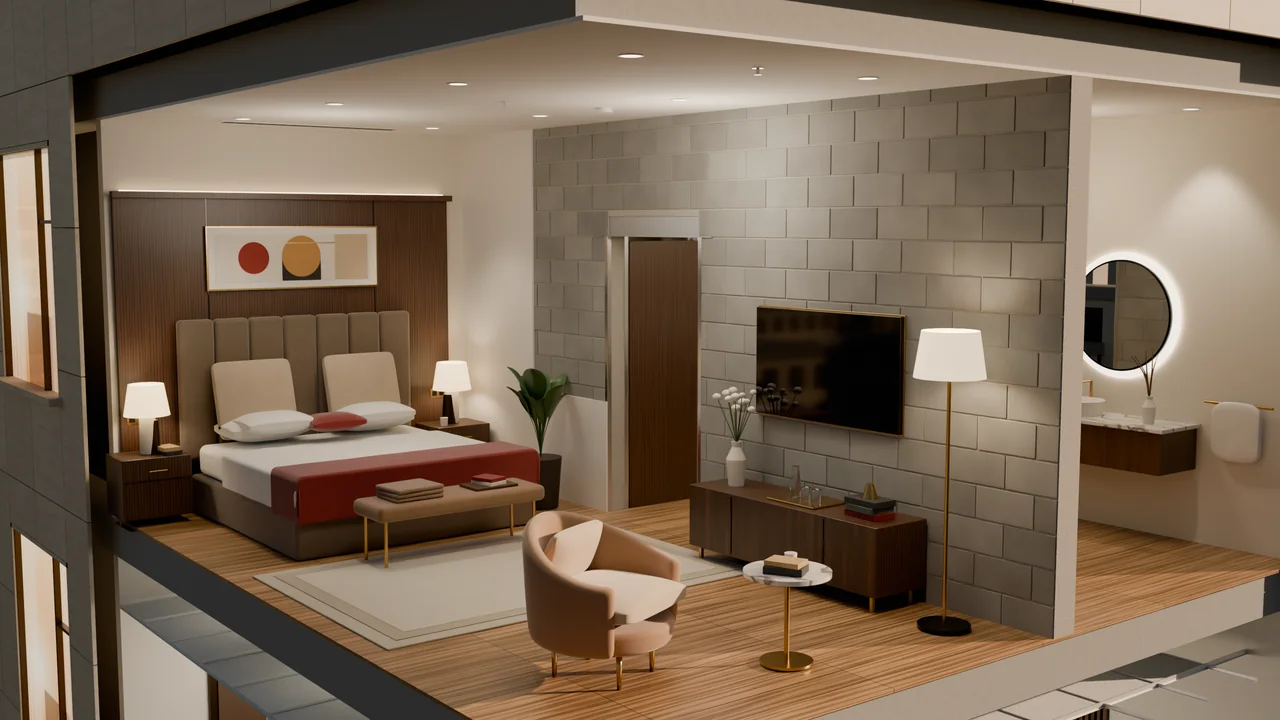
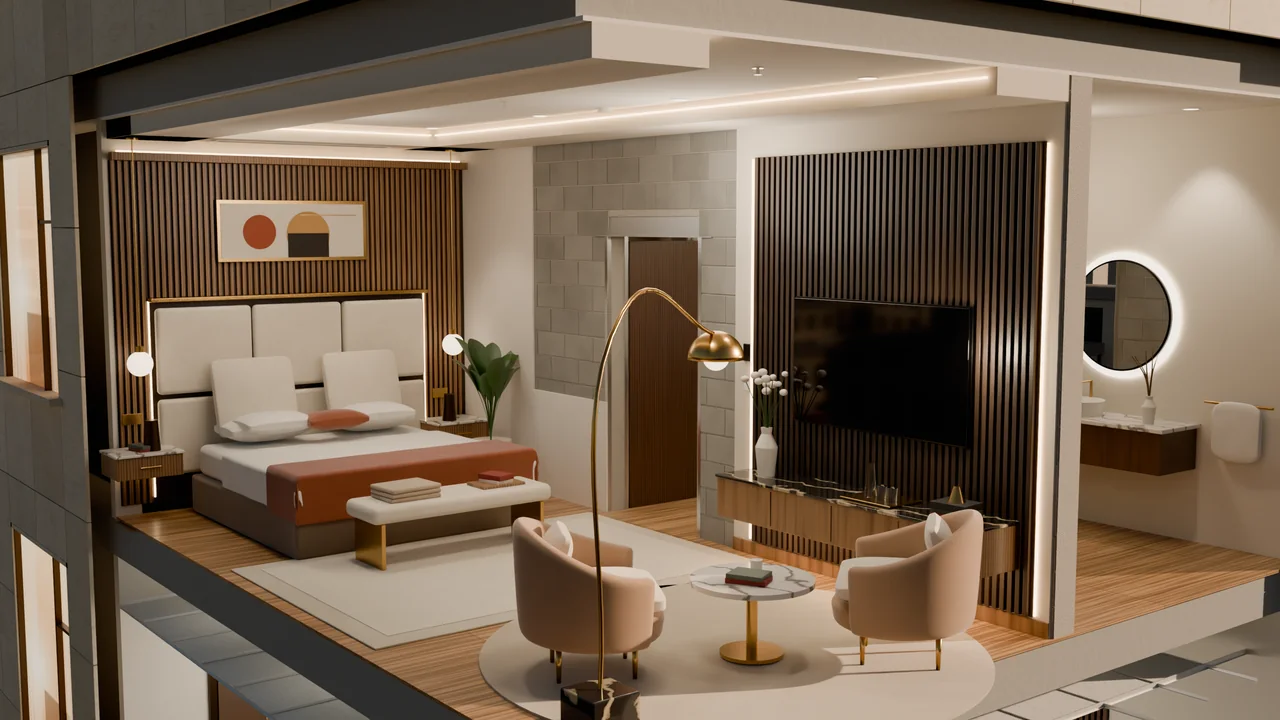
kv-v34b: hero chapters re-rendered — veined limestone cladding panels, redesigned suite, detailed roof, services floor and street
Claude-Session: https://claude.ai/code/session_017Zrk1783M4wwwCaEktgcez

diff --git a/assets/kv/herophoto.js b/assets/kv/herophoto.js
@@ -1,1 +1,1 @@
-const N=[{name:"The hotel",ox:.62,hi:1,v:"667077",tags:[]},{name:"Fa\xE7ade fixation",ox:.5,hi:1,v:"7e573c",tags:[{text:"Natural stone panels",num:null,href:"product/mechanical-cladding-fixation.html",x:.4354,y:-.1514},{text:"Stainless Z-brackets",num:null,href:"s/z-brackets.html",x:.586,y:.3359},{text:"Solid backing wall",num:null,href:"product/mechanical-cladding-fixation.html",x:.6528,y:.5268},{text:"Ventilated cavity",num:null,href:"product/mechanical-cladding-fixation.html",x:.2743,y:1.2563}]},{name:"The Z-bracket kit",ox:.5,hi:1,v:"de075c",tags:[{text:"Z-bracket",num:"1",href:"s/z-brackets.html",x:.4745,y:.6075},{text:"Through anchor",num:"2",href:"s/anchors.html",x:.4345,y:.4955},{text:"Serrated washer",num:"3",href:"s/z-brackets.html",x:.4428,y:.4612},{text:"Hex nuts",num:"4",href:"s/z-brackets.html",x:.4565,y:.6615},{text:"Flat head bolt",num:"5",href:"s/z-brackets.html",x:.4706,y:.6889},{text:"Pin with ring",num:"6",href:"s/z-brackets.html",x:.4888,y:.6482}]},{name:"Cable management",ox:.5,hi:1,v:"f88b6a",tags:[{text:"Perforated cable tray",num:null,href:"product/cable-trays.html",x:.34,y:.2554},{text:"Cable ladder",num:null,href:"product/cable-ladders.html",x:.7321,y:.5475},{text:"Strut channel trapeze",num:null,href:"product/c-channel-strut.html",x:.6573,y:.4215},{text:"Threaded rod & nuts",num:null,href:"s/threaded-accessories.html",x:.7319,y:.4777},{text:"Pipe clamps",num:null,href:"product/pipe-clamps.html",x:.3827,y:.4447},{text:"Cable trunking",num:null,href:"product/cable-trunkings.html",x:-.0406,y:.9286}]},{name:"Raised access floor",ox:.5,hi:1,v:"6b1dca",tags:[{text:"Porcelain slabs 600 \xD7 600",num:null,href:"product/raised-access-flooring.html",x:.6838,y:.4969},{text:"Adjustable pedestals",num:null,href:"s/indoor-access-floor.html",x:.6216,y:.6939},{text:"Self-levelling head",num:null,href:"s/indoor-access-floor.html",x:.8497,y:.5621}]},{name:"Ceilings & movement joints",ox:.5,hi:1,v:"c191a5",tags:[{text:"Metal ceiling grid",num:null,href:"product/metal-ceiling-grid.html",x:.4944,y:.3199},{text:"Floor expansion joint",num:null,href:"s/floor-joints.html",x:.6808,y:.8966},{text:"Wall joint cover",num:null,href:"s/wall-ceiling-joints.html",x:.398,y:.5393}]},{name:"Blockwork & lintels",ox:.5,hi:1,v:"35f995",tags:[{text:"Blockwork partition",num:null,href:"s/block-accessories.html",x:.4462,y:.3793},{text:"Steel lintel",num:null,href:"s/steel-lintels.html",x:.5078,y:.316},{text:"Angle beads",num:null,href:"s/plaster-beads.html",x:.5452,y:.5425}]},{name:"Garbage & linen chute",ox:.5,hi:1,v:"1a685a",tags:[{text:"Chute through every floor",num:null,href:"product/garbage-linen-chutes.html",x:.5051,y:.1311},{text:"Intake doors",num:null,href:"s/chute-components.html",x:.5025,y:.4667},{text:"Chute sections",num:null,href:"s/chute-components.html",x:.5037,y:.6748}]},{name:"The roof",ox:.5,hi:1,v:"f9c590",tags:[{text:"Porcelain terrace",num:null,href:"s/outdoor-pedestals.html",x:.2902,y:.7295},{text:"Terrace on adjustable pedestals",num:null,href:"s/outdoor-pedestals.html",x:.4508,y:.6766},{text:"FRP grating walkway",num:null,href:"s/frp-grating-handrail.html",x:.6566,y:.5929},{text:"FRP handrail",num:null,href:"s/frp-grating-handrail.html",x:.788,y:.3357},{text:"Cable ladder on strut stands",num:null,href:"product/cable-ladders.html",x:.7073,y:.3621}]}],Tt=[{o:[1.7,.65,.58],i:[1.22,.1,0]},{o:[1.6,.48,.59],i:[1.2,0,.25]},{o:[1.28,.5,.5],i:[1.4,.69,.98]},{o:[1.3,.4,1],i:[1.3,.45,0]},{o:[1.3,.4,0],i:[1.3,.6,1]},{o:[1.3,.5,0],i:[1.3,.5,1]},{o:[1.18,.5,.5],i:[1.35,.46,.07]},{o:[1.5,.19,.82],i:[1.25,.45,1]}],k="img/hotel/",I=620,i=document.querySelector(".hero"),dt=i&&i.querySelector(".hero-media");i&&dt&&Lt();function Lt(){const z=matchMedia("(prefers-reduced-motion: reduce)").matches,w=matchMedia("(min-width: 900px)"),p=N.length;let h=null;z||(h=document.createElement("div"),h.className="kv3d-pin kv3d-pin-long",i.parentNode.insertBefore(h,i),h.appendChild(i));const j=()=>!!h&&w.matches,M=document.createElement("div");M.className="kvh-stack",dt.appendChild(M);const f=N.map((t,n)=>{let e;const a=n===0?"":"?v="+t.v,s=k+"c"+n+"-1280.webp"+a+" 1280w, "+k+"c"+n+"-1920.webp"+a+" 1920w"+(t.hi?", "+k+"c"+n+"-2560.webp"+a+" 2560w":"");return n===0?(e=document.createElement("picture"),e.innerHTML='<source media="(max-width: 899px)" srcset="'+k+"c0p-800.webp 800w, "+k+'c0p-1080.webp 1080w" sizes="100vw"><img src="'+k+"c0-1920.webp"+a+'" srcset="'+s+'" sizes="100vw" alt="" fetchpriority="high" decoding="async">'):(e=document.createElement("img"),e.alt="",e.decoding="async",e.dataset.srcset=s),e.className="kvh-img"+(n===0?" on":""),e.style.setProperty("--ox",t.ox*100+"%"),M.appendChild(e),e}),q=t=>f[t].tagName==="PICTURE"?f[t].querySelector("img"):f[t],ht=t=>{const n=q(t);return n.complete&&n.naturalWidth>0},y=t=>{const n=f[t];n&&n.dataset.srcset&&(n.sizes="100vw",n.srcset=n.dataset.srcset,delete n.dataset.srcset)},mt=(t,n,e)=>{if(y(t),ht(t))return n();const a=q(t);let s=!1;const r=()=>{s||(s=!0,n())};a.addEventListener("load",r,{once:!0}),a.addEventListener("error",r,{once:!0}),e&&setTimeout(r,e)},b=document.createElement("div");b.className="kv3d-labels",b.setAttribute("aria-hidden","true"),i.appendChild(b);const ut=(t,n)=>{const e=document.createElement("div");e.className="kv3d-tag",e.style.setProperty("--d",n*70+"ms");const a=document.createElement("span");a.className="kv3d-dot";const s=document.createElement("span");s.className="kv3d-line";const r=document.createElement(t.href?"a":"span");if(r.className="kv3d-chip",t.href&&(r.href=t.href,r.tabIndex=-1,r.style.textDecoration="none",r.style.pointerEvents="none"),t.num){const m=document.createElement("b");m.textContent=t.num,r.appendChild(m)}const x=document.createElement("span");return x.textContent=t.text,r.appendChild(x),e.append(s,a,r),b.appendChild(e),{el:e,line:s,chip:r,on:!1,href:!!t.href,x:t.x,y:t.y}},ft=N.map(t=>t.tags.map(ut)),H=document.createElement("div");H.className="kv3d-steps kv3d-steps-many";const xt=N.map((t,n)=>{const e=document.createElement("button");e.type="button",e.className="kv3d-step";const a=document.createElement("b");a.textContent=String(n+1).padStart(2,"0");const s=document.createElement("span");return s.textContent=t.name,e.append(a,s),e.setAttribute("aria-label",t.name),e.addEventListener("click",()=>{j()&&(y(n),scrollTo({top:pt(n),behavior:"smooth"}))}),H.appendChild(e),e});i.appendChild(H);const C=document.createElement("div");C.className="kv3d-hint",C.textContent="Scroll to tour the hotel",i.appendChild(C);const V=()=>Math.max(1,h.offsetHeight-i.offsetHeight),pt=t=>h.getBoundingClientRect().top+scrollY-62+V()*(t/(p-1));let F=1,R=1;const Y=1920,Z=1080,yt=(t,n,e)=>{const a=Math.max(F/Y,R/Z),s=Y*a,r=Z*a;return[(F-s)*t.ox+n*s,(R-r)*.5+e*r]};function W(){const t=i.getBoundingClientRect();F=Math.max(1,t.width),R=Math.max(1,t.height),L()}let E=0,A=!1,d=0,T=0,g=0,_=0,gt=2,Q=0,X=0;const vt=()=>d;function L(){const t=j(),n=!A&&d===E;ft.forEach((a,s)=>Mt(a,N[s],t&&n&&s===E));const e=t?vt():0;i.classList.toggle("kv3d-detail",t&&e>0),xt.forEach((a,s)=>a.classList.toggle("on",s===e)),C.classList.toggle("gone",T>.02)}const J=t=>"translate("+((1-t[0])*t[1]*100).toFixed(3)+"%,"+((1-t[0])*t[2]*100).toFixed(3)+"%) scale("+t[0]+")",bt="translate(0,0) scale(1)",Et=t=>{const n=getComputedStyle(t);t.style.transition="none",t.style.transform=n.transform,t.style.opacity=n.opacity},K="cubic-bezier(.33,0,.15,1)";function kt(t){const n=E,e=++X;A=!0,L(),mt(t,()=>{if(e!==X)return;const a=f[n],s=f[t],r=t>n,x=Math.abs(t-n)===1,m=x?Tt[Math.min(n,t)]:null,D=x?r?m.o:m.i:[1.22,.5,.5],O=x?r?m.i:m.o:[1.1,.5,.5];f.forEach(l=>{l.classList.contains("on")&&Et(l)}),s.style.transition="none",s.style.zIndex=++gt,s.style.transformOrigin="0 0",s.classList.contains("on")||(s.style.opacity=0,s.style.transform=J(O),s.classList.add("on")),a.style.transformOrigin="0 0",s.offsetWidth;const o="transform "+I+"ms "+K+", opacity "+Math.round(I*.8)+"ms ease-in-out";s.style.transition=o,s.style.transform=bt,s.style.opacity=1,a!==s&&(a.style.transition="transform "+I+"ms "+K,a.style.transform=J(D)),E=t,clearTimeout(Q),Q=setTimeout(()=>{e===X&&(f.forEach((l,u)=>{u!==t&&(l.classList.remove("on"),l.style.transition="none",l.style.transform="",l.style.opacity="")}),s.style.transition="none",s.style.transform="",s.style.opacity="",A=!1,L(),P())},I+40)},1200)}function P(){if(d===E){A||(y(E),L());return}kt(d)}const $=.2,wt=.05;let v=0;function B(){if(!j()){T=0,d!==0&&(d=0,P()),L();return}const t=h.getBoundingClientRect(),n=Math.max(0,Math.min(1,(62-t.top)/V()));T=n;const e=n*(p-1);g===0?Math.abs(e-v)>.01&&(g=e>v?1:-1,v=e):(e-v)*g>=0?v=e:Math.abs(e-v)>wt&&(g=-g,v=e);let a=d;g>0?a=Math.max(d,Math.floor(e-$)+1):g<0&&(a=Math.min(d,Math.ceil(e+$)-1)),a=Math.max(0,Math.min(p-1,a)),clearTimeout(_),_=setTimeout(()=>{const s=Math.round(T*(p-1));Math.abs(T*(p-1)-d)>=1&&s!==d&&(d=s,P())},250),C.classList.toggle("gone",n>.02),a!==d&&(d=a,y(Math.min(p-1,a+1)),P())}const tt=42,et=60;function Mt(t,n,e){if(!t.length||(t.forEach(o=>{e!==o.on&&(o.on=e,o.el.classList.toggle("on",e),o.href&&(o.chip.style.pointerEvents=e?"auto":"none"))}),!e))return;const a=t.map(o=>{const[l,u]=yt(n,o.x,o.y);return{L:o,ax:l,ay:u}}),s=a.reduce((o,l)=>o+l.ax,0)/a.length,r=Math.min(...a.map(o=>o.ax)),x=Math.max(...a.map(o=>o.ax)),m={l:[],r:[]};a.forEach(o=>m[o.ax<s?"l":"r"].push(o));const D=96,O=R-118;["l","r"].forEach(o=>{const l=m[o].sort((c,Ct)=>c.ay-Ct.ay);if(!l.length)return;const u=o==="l"?r-et*.6:x+et*.6,S=o==="l"?Math.max(240,u):Math.min(F-240,u);let U=-1e9;l.forEach(c=>{c.ty=Math.max(c.ay,U+tt),U=c.ty});const ct=U-O;ct>0&&l.forEach(c=>c.ty-=ct);for(let c=l.length-2;c>=0;c--)l[c].ty=Math.min(l[c].ty,l[c+1].ty-tt);const it=D-l[0].ty;it>0&&l.forEach(c=>c.ty+=it),l.forEach(c=>{c.tx=S,c.left=o==="l"})}),a.forEach(o=>{const l=o.L,u=o.tx-o.ax,S=o.ty-o.ay;l.el.style.transform="translate("+o.ax.toFixed(1)+"px,"+o.ay.toFixed(1)+"px)",l.el.classList.toggle("left",o.left),l.line.style.width=Math.hypot(u,S).toFixed(1)+"px",l.line.style.transform="rotate("+Math.atan2(S,u).toFixed(4)+"rad)",l.chip.style.left=u.toFixed(1)+"px",l.chip.style.top=S.toFixed(1)+"px"})}const nt=["scroll","wheel","touchstart","keydown","pointerdown"];let st=!1;const at=()=>{if(!(st||!w.matches||z)){st=!0;for(let t=1;t<p;t++)setTimeout(()=>y(t),120*t);nt.forEach(t=>removeEventListener(t,at))}},ot=()=>{!w.matches||z||(y(1),y(2))};"requestIdleCallback"in window?requestIdleCallback(ot,{timeout:2500}):setTimeout(ot,1500),nt.forEach(t=>addEventListener(t,at,{passive:!0})),addEventListener("scroll",B,{passive:!0}),!z&&matchMedia("(pointer:fine)").matches&&(i.addEventListener("pointermove",t=>{const n=i.getBoundingClientRect(),e=(t.clientX-n.left)/n.width-.5,a=(t.clientY-n.top)/n.height-.5,s="translate3d("+(-e*14).toFixed(1)+"px,"+(-a*9).toFixed(1)+"px,0) scale(1.025)";M.style.transform=s,b.style.transform=s}),i.addEventListener("pointerleave",()=>{M.style.transform="",b.style.transform=""}));const lt=()=>{i.classList.add("has-3d","kvh-ready"),h&&h.classList.add("on"),W(),B()},G=q(0);G.complete&&G.naturalWidth?lt():G.addEventListener("load",lt,{once:!0});let rt;addEventListener("resize",()=>{clearTimeout(rt),rt=setTimeout(()=>{W(),B()},80)}),w.addEventListener&&w.addEventListener("change",()=>{W(),B()})}
+const N=[{name:"The hotel",ox:.62,hi:1,v:"7f790f",tags:[]},{name:"Fa\xE7ade fixation",ox:.5,hi:1,v:"fd509d",tags:[{text:"Natural stone panels",num:null,href:"product/mechanical-cladding-fixation.html",x:.4354,y:-.1514},{text:"Stainless Z-brackets",num:null,href:"s/z-brackets.html",x:.586,y:.3359},{text:"Solid backing wall",num:null,href:"product/mechanical-cladding-fixation.html",x:.6528,y:.5268},{text:"Ventilated cavity",num:null,href:"product/mechanical-cladding-fixation.html",x:.2743,y:1.2563}]},{name:"The Z-bracket kit",ox:.5,hi:1,v:"582c3e",tags:[{text:"Z-bracket",num:"1",href:"s/z-brackets.html",x:.4745,y:.6075},{text:"Through anchor",num:"2",href:"s/anchors.html",x:.4345,y:.4955},{text:"Serrated washer",num:"3",href:"s/z-brackets.html",x:.4428,y:.4612},{text:"Hex nuts",num:"4",href:"s/z-brackets.html",x:.4565,y:.6615},{text:"Flat head bolt",num:"5",href:"s/z-brackets.html",x:.4706,y:.6889},{text:"Pin with ring",num:"6",href:"s/z-brackets.html",x:.4888,y:.6482}]},{name:"Cable management",ox:.5,hi:1,v:"6bab65",tags:[{text:"Perforated cable tray",num:null,href:"product/cable-trays.html",x:.34,y:.2554},{text:"Cable ladder",num:null,href:"product/cable-ladders.html",x:.7321,y:.5475},{text:"Strut channel trapeze",num:null,href:"product/c-channel-strut.html",x:.6573,y:.4215},{text:"Threaded rod & nuts",num:null,href:"s/threaded-accessories.html",x:.7319,y:.4777},{text:"Pipe clamps",num:null,href:"product/pipe-clamps.html",x:.3827,y:.4447},{text:"Cable trunking",num:null,href:"product/cable-trunkings.html",x:-.0406,y:.9286}]},{name:"Raised access floor",ox:.5,hi:1,v:"701ce4",tags:[{text:"Porcelain slabs 600 \xD7 600",num:null,href:"product/raised-access-flooring.html",x:.6838,y:.4969},{text:"Adjustable pedestals",num:null,href:"s/indoor-access-floor.html",x:.6216,y:.6939},{text:"Self-levelling head",num:null,href:"s/indoor-access-floor.html",x:.8497,y:.5621}]},{name:"Ceilings & movement joints",ox:.5,hi:1,v:"f5bd2a",tags:[{text:"Metal ceiling grid",num:null,href:"product/metal-ceiling-grid.html",x:.4944,y:.3199},{text:"Floor expansion joint",num:null,href:"s/floor-joints.html",x:.6808,y:.8966},{text:"Wall joint cover",num:null,href:"s/wall-ceiling-joints.html",x:.398,y:.5393}]},{name:"Blockwork & lintels",ox:.5,hi:1,v:"b38667",tags:[{text:"Blockwork partition",num:null,href:"s/block-accessories.html",x:.4462,y:.3793},{text:"Steel lintel",num:null,href:"s/steel-lintels.html",x:.5078,y:.316},{text:"Angle beads",num:null,href:"s/plaster-beads.html",x:.5452,y:.5425}]},{name:"Garbage & linen chute",ox:.5,hi:1,v:"ca6363",tags:[{text:"Chute through every floor",num:null,href:"product/garbage-linen-chutes.html",x:.5051,y:.1311},{text:"Intake doors",num:null,href:"s/chute-components.html",x:.5025,y:.4667},{text:"Chute sections",num:null,href:"s/chute-components.html",x:.5037,y:.6748}]},{name:"The roof",ox:.5,hi:1,v:"4a050c",tags:[{text:"Porcelain terrace",num:null,href:"s/outdoor-pedestals.html",x:.2902,y:.7295},{text:"Terrace on adjustable pedestals",num:null,href:"s/outdoor-pedestals.html",x:.4508,y:.6766},{text:"FRP grating walkway",num:null,href:"s/frp-grating-handrail.html",x:.6566,y:.5929},{text:"FRP handrail",num:null,href:"s/frp-grating-handrail.html",x:.788,y:.3357},{text:"Cable ladder on strut stands",num:null,href:"product/cable-ladders.html",x:.7073,y:.3621}]}],Tt=[{o:[1.7,.65,.58],i:[1.22,.1,0]},{o:[1.6,.48,.59],i:[1.2,0,.25]},{o:[1.28,.5,.5],i:[1.4,.69,.98]},{o:[1.3,.4,1],i:[1.3,.45,0]},{o:[1.3,.4,0],i:[1.3,.6,1]},{o:[1.3,.5,0],i:[1.3,.5,1]},{o:[1.18,.5,.5],i:[1.35,.46,.07]},{o:[1.5,.19,.82],i:[1.25,.45,1]}],k="img/hotel/",I=620,i=document.querySelector(".hero"),dt=i&&i.querySelector(".hero-media");i&&dt&&Lt();function Lt(){const z=matchMedia("(prefers-reduced-motion: reduce)").matches,w=matchMedia("(min-width: 900px)"),p=N.length;let h=null;z||(h=document.createElement("div"),h.className="kv3d-pin kv3d-pin-long",i.parentNode.insertBefore(h,i),h.appendChild(i));const j=()=>!!h&&w.matches,M=document.createElement("div");M.className="kvh-stack",dt.appendChild(M);const f=N.map((t,n)=>{let e;const a=n===0?"":"?v="+t.v,s=k+"c"+n+"-1280.webp"+a+" 1280w, "+k+"c"+n+"-1920.webp"+a+" 1920w"+(t.hi?", "+k+"c"+n+"-2560.webp"+a+" 2560w":"");return n===0?(e=document.createElement("picture"),e.innerHTML='<source media="(max-width: 899px)" srcset="'+k+"c0p-800.webp 800w, "+k+'c0p-1080.webp 1080w" sizes="100vw"><img src="'+k+"c0-1920.webp"+a+'" srcset="'+s+'" sizes="100vw" alt="" fetchpriority="high" decoding="async">'):(e=document.createElement("img"),e.alt="",e.decoding="async",e.dataset.srcset=s),e.className="kvh-img"+(n===0?" on":""),e.style.setProperty("--ox",t.ox*100+"%"),M.appendChild(e),e}),q=t=>f[t].tagName==="PICTURE"?f[t].querySelector("img"):f[t],ht=t=>{const n=q(t);return n.complete&&n.naturalWidth>0},y=t=>{const n=f[t];n&&n.dataset.srcset&&(n.sizes="100vw",n.srcset=n.dataset.srcset,delete n.dataset.srcset)},mt=(t,n,e)=>{if(y(t),ht(t))return n();const a=q(t);let s=!1;const r=()=>{s||(s=!0,n())};a.addEventListener("load",r,{once:!0}),a.addEventListener("error",r,{once:!0}),e&&setTimeout(r,e)},b=document.createElement("div");b.className="kv3d-labels",b.setAttribute("aria-hidden","true"),i.appendChild(b);const ut=(t,n)=>{const e=document.createElement("div");e.className="kv3d-tag",e.style.setProperty("--d",n*70+"ms");const a=document.createElement("span");a.className="kv3d-dot";const s=document.createElement("span");s.className="kv3d-line";const r=document.createElement(t.href?"a":"span");if(r.className="kv3d-chip",t.href&&(r.href=t.href,r.tabIndex=-1,r.style.textDecoration="none",r.style.pointerEvents="none"),t.num){const m=document.createElement("b");m.textContent=t.num,r.appendChild(m)}const x=document.createElement("span");return x.textContent=t.text,r.appendChild(x),e.append(s,a,r),b.appendChild(e),{el:e,line:s,chip:r,on:!1,href:!!t.href,x:t.x,y:t.y}},ft=N.map(t=>t.tags.map(ut)),H=document.createElement("div");H.className="kv3d-steps kv3d-steps-many";const xt=N.map((t,n)=>{const e=document.createElement("button");e.type="button",e.className="kv3d-step";const a=document.createElement("b");a.textContent=String(n+1).padStart(2,"0");const s=document.createElement("span");return s.textContent=t.name,e.append(a,s),e.setAttribute("aria-label",t.name),e.addEventListener("click",()=>{j()&&(y(n),scrollTo({top:pt(n),behavior:"smooth"}))}),H.appendChild(e),e});i.appendChild(H);const C=document.createElement("div");C.className="kv3d-hint",C.textContent="Scroll to tour the hotel",i.appendChild(C);const V=()=>Math.max(1,h.offsetHeight-i.offsetHeight),pt=t=>h.getBoundingClientRect().top+scrollY-62+V()*(t/(p-1));let F=1,R=1;const Y=1920,Z=1080,yt=(t,n,e)=>{const a=Math.max(F/Y,R/Z),s=Y*a,r=Z*a;return[(F-s)*t.ox+n*s,(R-r)*.5+e*r]};function W(){const t=i.getBoundingClientRect();F=Math.max(1,t.width),R=Math.max(1,t.height),L()}let E=0,A=!1,d=0,T=0,g=0,_=0,gt=2,Q=0,X=0;const vt=()=>d;function L(){const t=j(),n=!A&&d===E;ft.forEach((a,s)=>Mt(a,N[s],t&&n&&s===E));const e=t?vt():0;i.classList.toggle("kv3d-detail",t&&e>0),xt.forEach((a,s)=>a.classList.toggle("on",s===e)),C.classList.toggle("gone",T>.02)}const J=t=>"translate("+((1-t[0])*t[1]*100).toFixed(3)+"%,"+((1-t[0])*t[2]*100).toFixed(3)+"%) scale("+t[0]+")",bt="translate(0,0) scale(1)",Et=t=>{const n=getComputedStyle(t);t.style.transition="none",t.style.transform=n.transform,t.style.opacity=n.opacity},K="cubic-bezier(.33,0,.15,1)";function kt(t){const n=E,e=++X;A=!0,L(),mt(t,()=>{if(e!==X)return;const a=f[n],s=f[t],r=t>n,x=Math.abs(t-n)===1,m=x?Tt[Math.min(n,t)]:null,D=x?r?m.o:m.i:[1.22,.5,.5],O=x?r?m.i:m.o:[1.1,.5,.5];f.forEach(l=>{l.classList.contains("on")&&Et(l)}),s.style.transition="none",s.style.zIndex=++gt,s.style.transformOrigin="0 0",s.classList.contains("on")||(s.style.opacity=0,s.style.transform=J(O),s.classList.add("on")),a.style.transformOrigin="0 0",s.offsetWidth;const o="transform "+I+"ms "+K+", opacity "+Math.round(I*.8)+"ms ease-in-out";s.style.transition=o,s.style.transform=bt,s.style.opacity=1,a!==s&&(a.style.transition="transform "+I+"ms "+K,a.style.transform=J(D)),E=t,clearTimeout(Q),Q=setTimeout(()=>{e===X&&(f.forEach((l,u)=>{u!==t&&(l.classList.remove("on"),l.style.transition="none",l.style.transform="",l.style.opacity="")}),s.style.transition="none",s.style.transform="",s.style.opacity="",A=!1,L(),P())},I+40)},1200)}function P(){if(d===E){A||(y(E),L());return}kt(d)}const $=.2,wt=.05;let v=0;function B(){if(!j()){T=0,d!==0&&(d=0,P()),L();return}const t=h.getBoundingClientRect(),n=Math.max(0,Math.min(1,(62-t.top)/V()));T=n;const e=n*(p-1);g===0?Math.abs(e-v)>.01&&(g=e>v?1:-1,v=e):(e-v)*g>=0?v=e:Math.abs(e-v)>wt&&(g=-g,v=e);let a=d;g>0?a=Math.max(d,Math.floor(e-$)+1):g<0&&(a=Math.min(d,Math.ceil(e+$)-1)),a=Math.max(0,Math.min(p-1,a)),clearTimeout(_),_=setTimeout(()=>{const s=Math.round(T*(p-1));Math.abs(T*(p-1)-d)>=1&&s!==d&&(d=s,P())},250),C.classList.toggle("gone",n>.02),a!==d&&(d=a,y(Math.min(p-1,a+1)),P())}const tt=42,et=60;function Mt(t,n,e){if(!t.length||(t.forEach(o=>{e!==o.on&&(o.on=e,o.el.classList.toggle("on",e),o.href&&(o.chip.style.pointerEvents=e?"auto":"none"))}),!e))return;const a=t.map(o=>{const[l,u]=yt(n,o.x,o.y);return{L:o,ax:l,ay:u}}),s=a.reduce((o,l)=>o+l.ax,0)/a.length,r=Math.min(...a.map(o=>o.ax)),x=Math.max(...a.map(o=>o.ax)),m={l:[],r:[]};a.forEach(o=>m[o.ax<s?"l":"r"].push(o));const D=96,O=R-118;["l","r"].forEach(o=>{const l=m[o].sort((c,Ct)=>c.ay-Ct.ay);if(!l.length)return;const u=o==="l"?r-et*.6:x+et*.6,S=o==="l"?Math.max(240,u):Math.min(F-240,u);let U=-1e9;l.forEach(c=>{c.ty=Math.max(c.ay,U+tt),U=c.ty});const ct=U-O;ct>0&&l.forEach(c=>c.ty-=ct);for(let c=l.length-2;c>=0;c--)l[c].ty=Math.min(l[c].ty,l[c+1].ty-tt);const it=D-l[0].ty;it>0&&l.forEach(c=>c.ty+=it),l.forEach(c=>{c.tx=S,c.left=o==="l"})}),a.forEach(o=>{const l=o.L,u=o.tx-o.ax,S=o.ty-o.ay;l.el.style.transform="translate("+o.ax.toFixed(1)+"px,"+o.ay.toFixed(1)+"px)",l.el.classList.toggle("left",o.left),l.line.style.width=Math.hypot(u,S).toFixed(1)+"px",l.line.style.transform="rotate("+Math.atan2(S,u).toFixed(4)+"rad)",l.chip.style.left=u.toFixed(1)+"px",l.chip.style.top=S.toFixed(1)+"px"})}const nt=["scroll","wheel","touchstart","keydown","pointerdown"];let st=!1;const at=()=>{if(!(st||!w.matches||z)){st=!0;for(let t=1;t<p;t++)setTimeout(()=>y(t),120*t);nt.forEach(t=>removeEventListener(t,at))}},ot=()=>{!w.matches||z||(y(1),y(2))};"requestIdleCallback"in window?requestIdleCallback(ot,{timeout:2500}):setTimeout(ot,1500),nt.forEach(t=>addEventListener(t,at,{passive:!0})),addEventListener("scroll",B,{passive:!0}),!z&&matchMedia("(pointer:fine)").matches&&(i.addEventListener("pointermove",t=>{const n=i.getBoundingClientRect(),e=(t.clientX-n.left)/n.width-.5,a=(t.clientY-n.top)/n.height-.5,s="translate3d("+(-e*14).toFixed(1)+"px,"+(-a*9).toFixed(1)+"px,0) scale(1.025)";M.style.transform=s,b.style.transform=s}),i.addEventListener("pointerleave",()=>{M.style.transform="",b.style.transform=""}));const lt=()=>{i.classList.add("has-3d","kvh-ready"),h&&h.classList.add("on"),W(),B()},G=q(0);G.complete&&G.naturalWidth?lt():G.addEventListener("load",lt,{once:!0});let rt;addEventListener("resize",()=>{clearTimeout(rt),rt=setTimeout(()=>{W(),B()},80)}),w.addEventListener&&w.addEventListener("change",()=>{W(),B()})}
